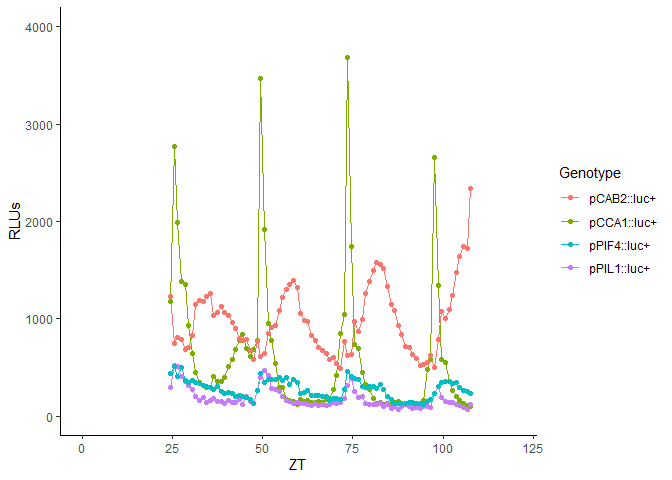
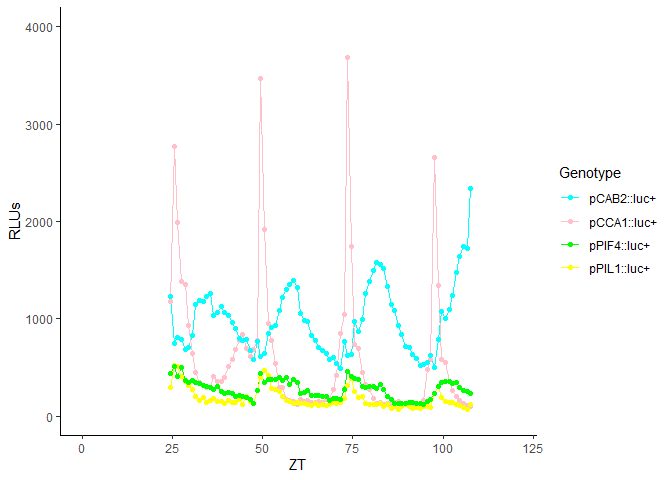
colors changed

diff --git a/Challenge2_output/rebuildplot.md b/Challenge2_output/rebuildplot.md
@@ -22,7 +22,7 @@ mycolors <- c("cyan", "pink", "green", "yellow")
 ggplot(lumi, aes(ZT, RLUs, line = Genotype, color = Genotype)) +
   geom_line() +
   geom_point() +
-  #scale_fill_manual(values = mycolors) +
+  scale_color_manual(values = mycolors) +
   theme_classic() +
   xlim(00.00, 120.00)+
   ylim(0, 4000) 
